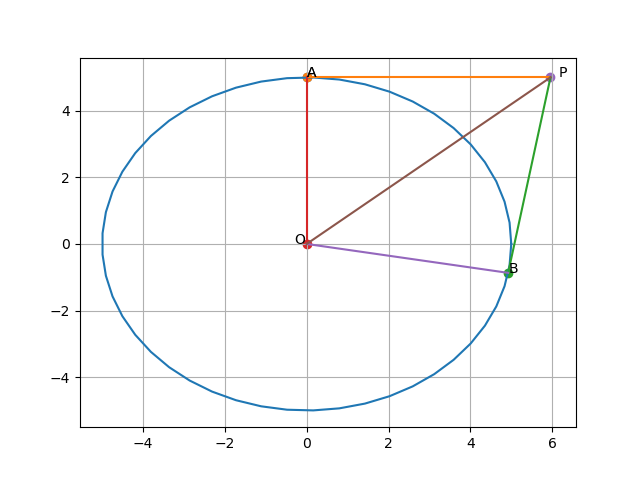
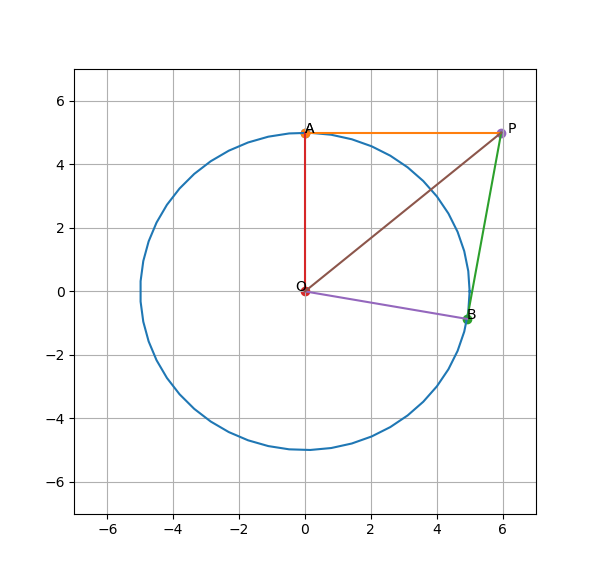
Change

diff --git a/10.10.2.3/10.10.2.3.tex b/10.10.2.3/10.10.2.3.tex
@@ -242,7 +242,7 @@ let $\angle{POA} = \phi$
 
 \begin{figure}[h!]
   \centering
-    \includegraphics[width=\columnwidth]{figs/Figure_1.png}
+    \includegraphics[width=\columnwidth,height=\columnwidth]{figs/Figure_1.png}
     \caption{Figure 1}
     \label{fig:}
 \end{figure}

diff --git a/10.10.2.3/codes/10.10.2.3.py b/10.10.2.3/codes/10.10.2.3.py
@@ -87,7 +87,7 @@ plt.text(O[0]-0.3,O[1],'O')
 plt.scatter(P[0],P[1])
 plt.text(P[0]+0.2,P[1],'P')
 
-#plt.xlim(-7,7)
-
+plt.xlim(-7,7)
+plt.ylim(-7,7)
 plt.grid()
 plt.show()
